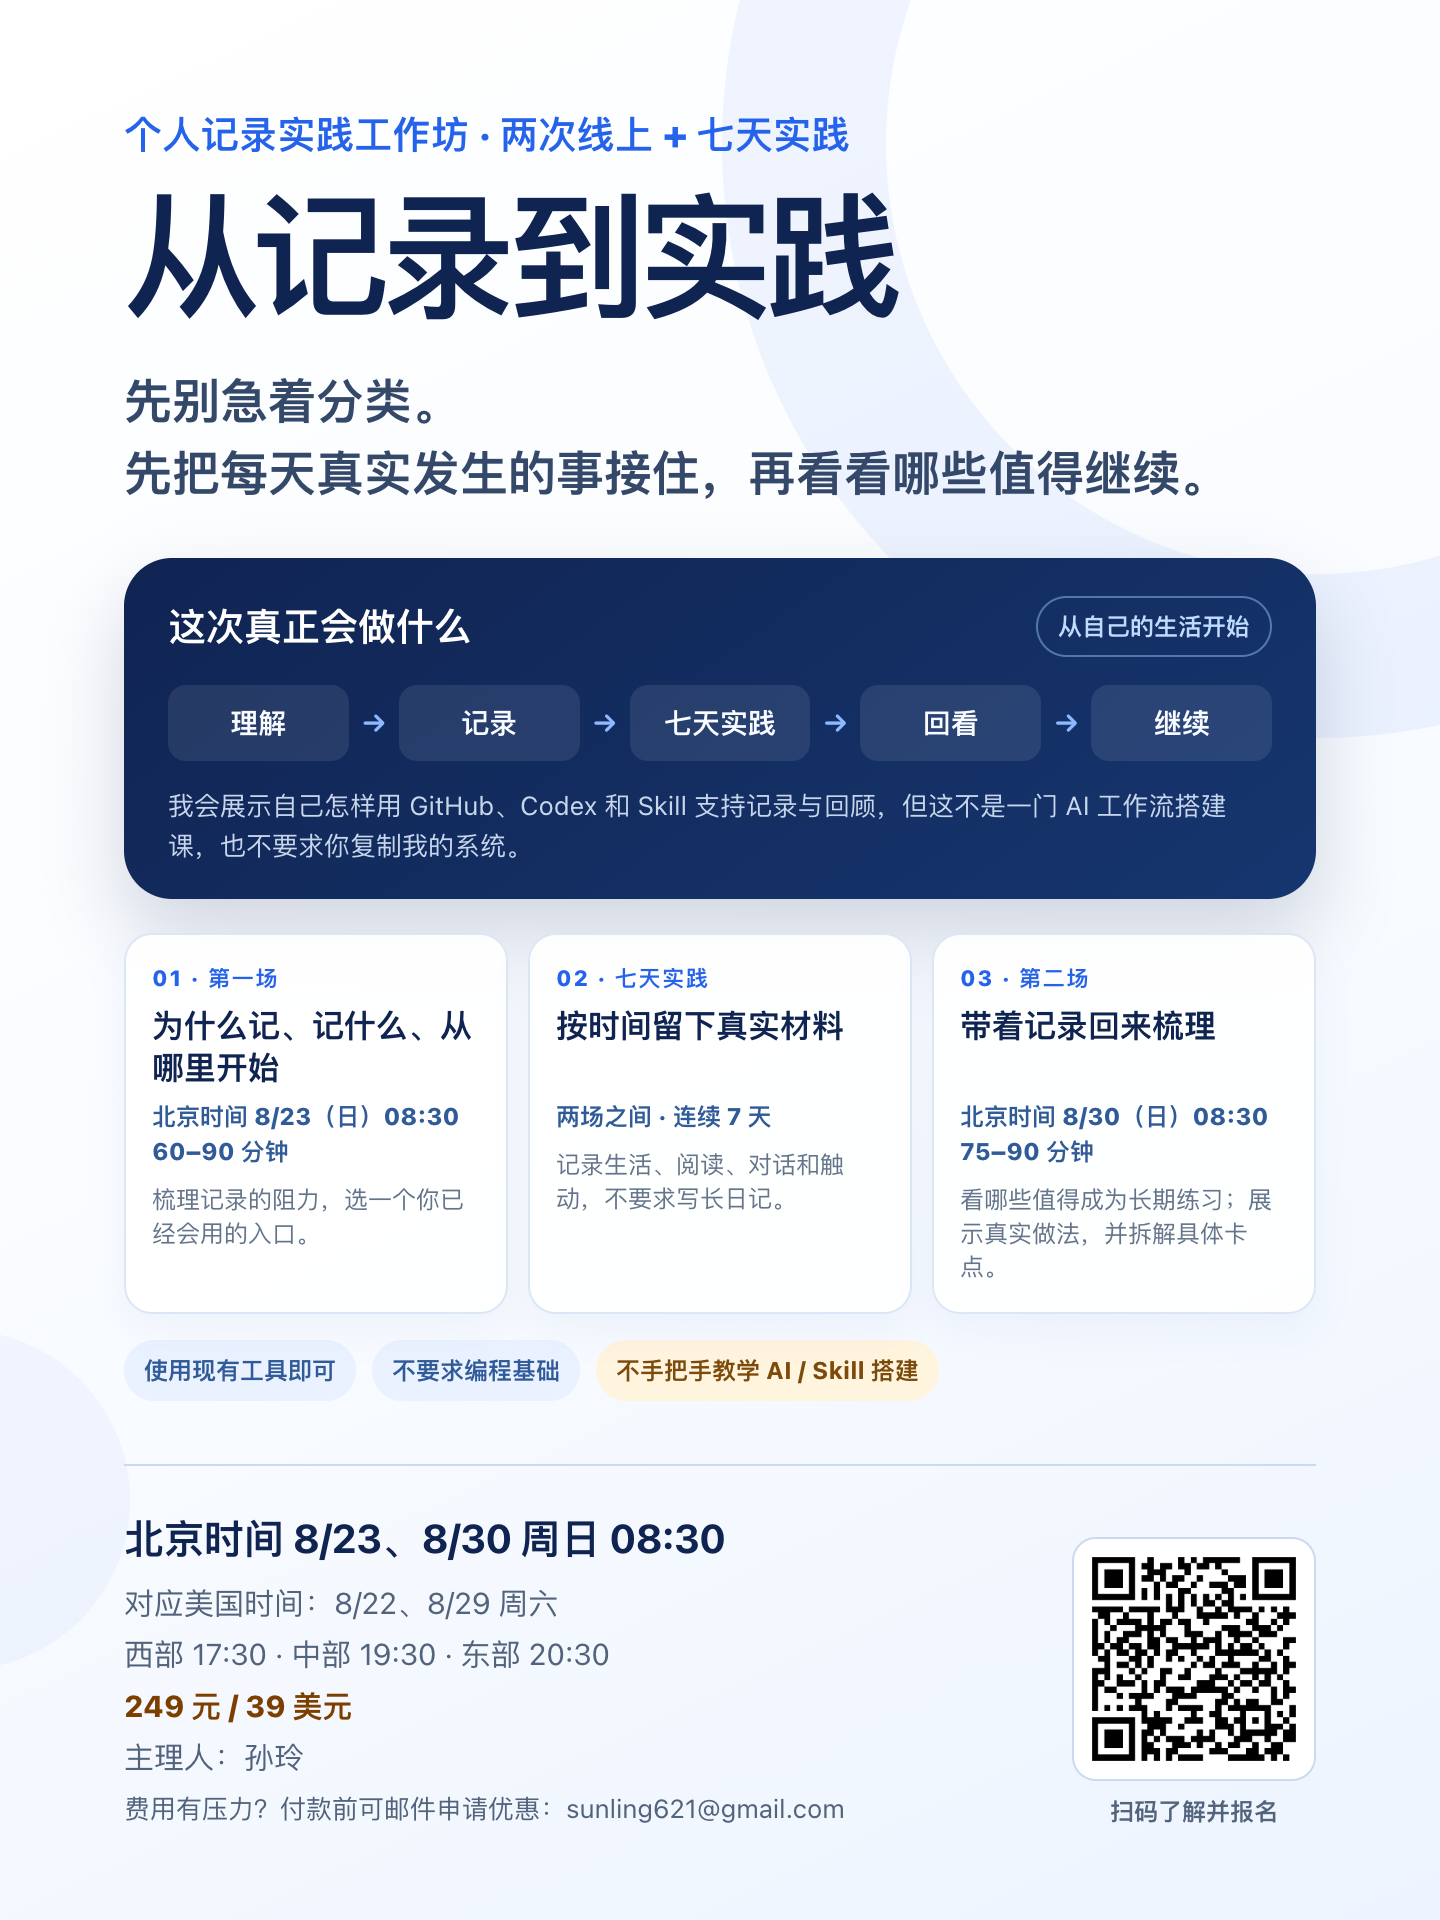
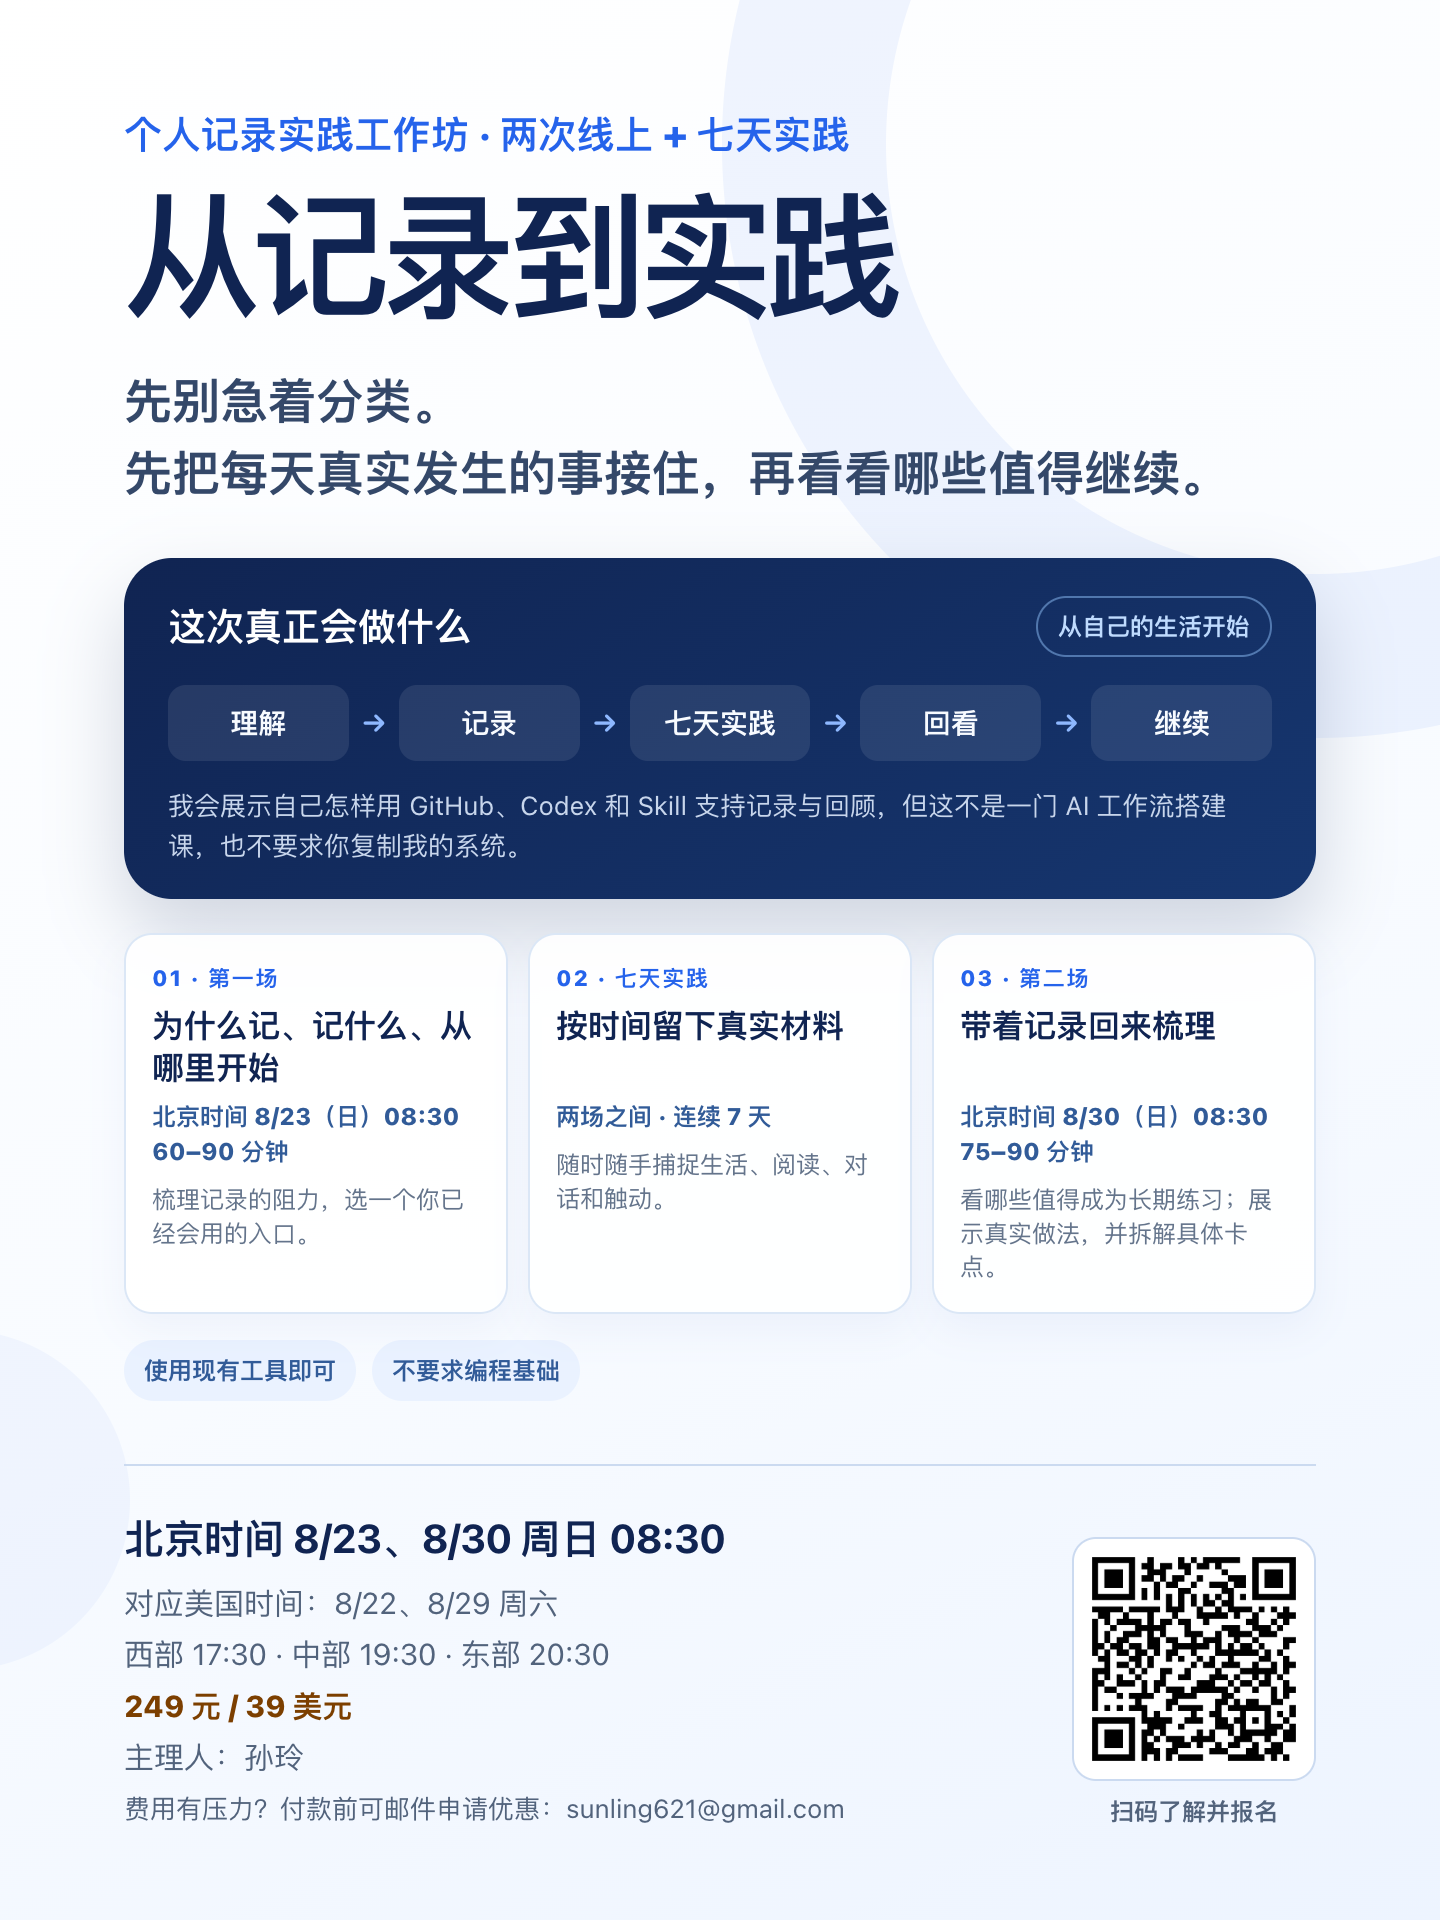
feat: add group QR code redirect function and landing page with updated workshop assets

Changed region(s): [[0.4062, 0.6875, 0.6562, 0.75], [0.375, 0.5938, 0.5938, 0.625]]

diff --git a/from-recording-to-practice-workshop.html b/from-recording-to-practice-workshop.html
@@ -104,7 +104,8 @@
       <p class="belief">想记录，却总卡在「记什么、放哪里、以后怎么用」？先别急着设计一套完美系统。我们从一个入口开始，把每天真实发生的事情接住。</p>
       <p class="lead">两次线上工作坊，中间连续记录七天。第一场一起聊清楚为什么记录、可以记录什么，以及怎样减少记录时的犹豫和分类负担；七天后带着真实材料回来，我会打开自己正在使用的记录方式，也一起拆解参与者遇到的具体卡点。你也会看到，我怎样借助 AI 回看、整理、连接和继续创作。</p>
       <div class="facts" aria-label="工作坊信息">
-        <span>第一场 60–90 分钟</span><span>7 天真实记录</span><span>第二场 75–90 分钟</span><span>线上进行</span><span class="price-fact" id="price-fact">费用 299 元 / 45 美元</span>
+        <span>第一场 60–90 分钟</span><span>7 天真实记录</span><span>第二场 75–90 分钟</span><span>线上进行</span><span class="price-fact"
+          id="price-fact">费用 249 元 / 39 美元</span>
       </div>
       <div class="schedule" aria-label="工作坊时间">
         <article><span class="number">第一场</span><strong>美国：8 月 22 日（周六）</strong><p>西部 17:30 · 中部 19:30 · 东部 20:30 · 60–90 分钟</p><strong>北京：8 月 23 日（周日）08:30</strong></article>
@@ -130,7 +131,7 @@
       <p class="section-intro">不是先学一套工具，而是先从自己的生活开始：理解、记录、实践，再回来梳理。</p>
       <div class="steps">
         <article class="card"><span class="number">01 · 第一场</span><h3>找到一个愿意开始的入口</h3><p>一起想清楚：为什么记录、什么值得记录、现在为什么总是没有记下来。选一个你已经会用的入口，先让「想到就能记」发生，而不是先研究应该怎么分类。</p></article>
-        <article class="card"><span class="number">02 · 中间七天</span><h3>按时间接住七天生活</h3><p>当天发生了什么、经历了什么、读到了什么、和谁聊了什么、有什么触动，就先留在当天。可以很短，不要求写完整日记，也不需要公开打卡。</p></article>
+        <article class="card"><span class="number">02 · 中间七天</span><h3>按时间接住七天生活</h3><p>当天发生了什么、经历了什么、读到了什么、和谁聊了什么、有什么触动，就先留在当天。随时随手捕捉即可，不需要公开打卡。</p></article>
         <article class="card"><span class="number">03 · 第二场</span><h3>从记录里长出自己的实践</h3><p>带着七天材料回来，看哪些事情只是经过，哪些事情正在持续发生、值得长期练习。再决定它们是否需要一个名字、一个项目或一个更稳定的空间。</p></article>
       </div>
     </section>
@@ -205,17 +206,13 @@
       </form>
     </section>
 
-    <section class="payment-panel" id="confirmation" tabindex="-1" hidden aria-labelledby="confirmation-title">
-      <div class="payment-heading"><div><h2 id="confirmation-title">报名信息已收到，扫码申请入群</h2><p>请使用微信扫描下方二维码申请加入工作坊群。群管理员会核对报名信息和付款记录，通过审核后即可入群。</p></div></div>
-      <div class="review-grid"><a href="assets/recording-to-practice-group-qr.jpg" target="_blank" rel="noreferrer" aria-label="放大工作坊微信群二维码"><img class="review-qr" src="assets/recording-to-practice-group-qr.jpg" alt="从记录到实践工作坊微信群二维码" /></a><div class="review-copy"><h3>加入工作坊群</h3><p>扫码后请提交入群申请。二维码有有效期；如果无法加入，我会通过报名时填写的微信 ID 联系你。</p><p><strong>提交报名不等于自动入群。</strong>群聊只向已经完成报名和付款核对的参与者开放。</p></div></div>
-    </section>
+
 
     <footer>主理人：孙玲</footer>
   </main>
   <script>
     const form = document.querySelector("#signup-form");
-    const status = document.querySelector("#form-status");
-    const confirmationPanel = document.querySelector("#confirmation");
+                const status = document.querySelector("#form-status");
     const referralInput = form.elements.referral_code;
     const referralStorageKey = "workshop-referral";
     const referralMaxAge = 30 * 24 * 60 * 60 * 1000;
@@ -238,8 +235,7 @@
     document.querySelectorAll("[data-price-label]").forEach((element) => { element.textContent = price.label; });
     document.querySelectorAll("[data-rmb-price]").forEach((element) => { element.textContent = price.rmb; });
     document.querySelectorAll("[data-usd-price]").forEach((element) => { element.textContent = price.usd; });
-    document.querySelectorAll("[data-price-note]").forEach((element) => { element.textContent = price.note; });
-    if (!isEarlyBird) document.querySelector("#price-fact").textContent = "费用 299 元 / 45 美元";
+                document.querySelectorAll("[data-price-note]").forEach((element) => { element.textContent = price.note; });
     form.addEventListener("submit", async (event) => {
       event.preventDefault();
       status.className = "";
@@ -254,11 +250,7 @@
         const result = await response.json().catch(() => ({}));
         if (!response.ok) throw new Error(result.error || "提交没有成功，请稍后再试。");
         form.reset();
-        status.className = "success";
-        status.textContent = "报名信息已收到，请等待核对和入群邀请。";
-        confirmationPanel.hidden = false;
-        confirmationPanel.focus();
-        confirmationPanel.scrollIntoView({ behavior: "smooth", block: "start" });
+        window.location.href = "/join-group.html";
       } catch (error) {
         status.className = "error";
         status.textContent = error.message || "提交没有成功，请稍后再试。";

diff --git a/join-group.html b/join-group.html
@@ -1,0 +1,39 @@
+<!DOCTYPE html>
+<html lang="zh-CN">
+<head>
+  <meta charset="UTF-8" />
+  <meta name="viewport" content="width=device-width, initial-scale=1.0" />
+  <title>加入工作坊微信群</title>
+  <link rel="stylesheet" href="styles/shared.css" />
+  <link rel="icon" type="image/png" href="favicon.ico" />
+  <style>
+    :root { --blue:#2563eb; --navy:#102452; --ink:#172033; --muted:#64748b; --line:#dbe7f6; --soft:#f4f8ff; }
+    body { background:linear-gradient(180deg,#f5f9ff 0,#fff 34rem); color:var(--ink); min-height: 100vh; display: flex; align-items: center; justify-content: center; margin: 0; padding: 24px; text-align: center; font-family: -apple-system,BlinkMacSystemFont,"PingFang SC","Microsoft YaHei",sans-serif; }
+    .container { max-width: 500px; padding: 40px; border: 1px solid var(--line); border-radius: 18px; background: #fff; box-shadow: 0 12px 34px rgba(30,64,175,.05); }
+    h1 { margin: 0 0 16px; color: var(--navy); font-size: 28px; line-height: 1.2; letter-spacing: -.03em; }
+    p { margin: 0 0 24px; color: var(--muted); font-size: 16px; line-height: 1.6; }
+    .qr-container { display: flex; flex-direction: column; align-items: center; justify-content: center; min-height: 280px; margin-bottom: 24px; border: 1px solid var(--line); border-radius: 12px; background: var(--soft); overflow: hidden; }
+    .qr-image { display: block; max-width: 100%; max-height: 400px; }
+    .error-note { margin: 0; padding: 16px; border-radius: 10px; background: #fff4dd; color: #8a4b07; font-size: 14px; line-height: 1.6; text-align: left; }
+    .loading-state { color: var(--blue); font-weight: 600; }
+  </style>
+</head>
+<body>
+  <div class="container">
+    <h1>报名成功！<br>请扫码加入工作坊微信群</h1>
+    <p>您的报名信息已收到。为了不错过后续的工作坊通知和交流，请立即扫码入群。</p>
+    
+    <div class="qr-container">
+      <img src="/.netlify/functions/group-qr" alt="工作坊微信群二维码" class="qr-image" 
+           onload="document.getElementById('loading').style.display='none'"
+           onerror="this.style.display='none'; document.getElementById('loading').textContent='二维码加载失败'; document.getElementById('loading').style.color='red';" />
+      <span id="loading" class="loading-state">正在加载二维码...</span>
+    </div>
+
+    <div class="error-note">
+      <strong>如果扫码失败或无法加入：</strong><br>
+      由于微信群二维码有时间或人数限制，如果以上二维码已失效或遇到任何问题，请发邮件至 <a href="mailto:sunling621@gmail.com" style="color: #8a4b07; font-weight: bold;">sunling621@gmail.com</a>，我会尽快协助您入群。
+    </div>
+  </div>
+</body>
+</html>

diff --git a/netlify/functions/group-qr.ts b/netlify/functions/group-qr.ts
@@ -1,0 +1,46 @@
+import { Handler } from "@netlify/functions";
+
+export const handler: Handler = async (event, context) => {
+  const token = process.env.GH_RW_WORKSHOP_ASSETS_TOKEN;
+  if (!token) {
+    return { statusCode: 500, body: "Missing GH_RW_WORKSHOP_ASSETS_TOKEN" };
+  }
+
+  const repoName = process.env.GH_REPO_NAME || "workshop-assets";
+  // Assuming the owner is sunling if not specified in repoName
+  const fullRepoName = repoName.includes('/') ? repoName : `sunling/${repoName}`;
+  const branch = process.env.GH_REPO_BRANCH || "main";
+  
+  try {
+    const response = await fetch(
+      `https://api.github.com/repos/${fullRepoName}/contents/group-qr/from-recording-to-practice-2026-08/latest.png?ref=${branch}`,
+      {
+        headers: {
+          Authorization: `token ${token}`,
+          Accept: "application/vnd.github.v3+json",
+        },
+      }
+    );
+
+    if (!response.ok) {
+      return { statusCode: response.status, body: "Failed to fetch QR code from GitHub" };
+    }
+
+    const data = await response.json();
+
+    if (!data.download_url) {
+      return { statusCode: 404, body: "QR code not found" };
+    }
+
+    return {
+      statusCode: 302,
+      headers: {
+        Location: data.download_url,
+      },
+      body: "",
+    };
+  } catch (error) {
+    console.error("Error fetching group QR code:", error);
+    return { statusCode: 500, body: "Internal Server Error" };
+  }
+};

diff --git a/from-recording-to-practice-workshop-poster.html b/from-recording-to-practice-workshop-poster.html
@@ -67,7 +67,7 @@
       </div>
       <div class="path">
         <div class="step"><em>01 · 第一场</em><b>为什么记、记什么、从哪里开始</b><span class="step-time">北京时间 8/23（日）08:30<br />60–90 分钟</span><p>梳理记录的阻力，选一个你已经会用的入口。</p></div>
-        <div class="step"><em>02 · 七天实践</em><b>按时间留下真实材料</b><span class="step-time">两场之间 · 连续 7 天</span><p>记录生活、阅读、对话和触动，不要求写长日记。</p></div>
+        <div class="step"><em>02 · 七天实践</em><b>按时间留下真实材料</b><span class="step-time">两场之间 · 连续 7 天</span><p>随时随手捕捉生活、阅读、对话和触动。</p></div>
         <div class="step"><em>03 · 第二场</em><b>带着记录回来梳理</b><span class="step-time">北京时间 8/30（日）08:30<br />75–90 分钟</span><p>看哪些值得成为长期练习；展示真实做法，并拆解具体卡点。</p></div>
       </div>
       <div class="promise"><span>使用现有工具即可</span><span>不要求编程基础</span></div>

diff --git a/test-fetch.js b/test-fetch.js
@@ -1,0 +1,4 @@
+const token = process.env.GH_RW_WORKSHOP_ASSETS_TOKEN;
+fetch("https://api.github.com/repos/sunling/workshop-assets/contents/group-qr/from-recording-to-practice-2026-08/latest.png", {
+  headers: { Authorization: `token ${token}`, Accept: "application/vnd.github.v3+json" }
+}).then(r => r.json()).then(d => console.log(d.download_url)).catch(console.error);
